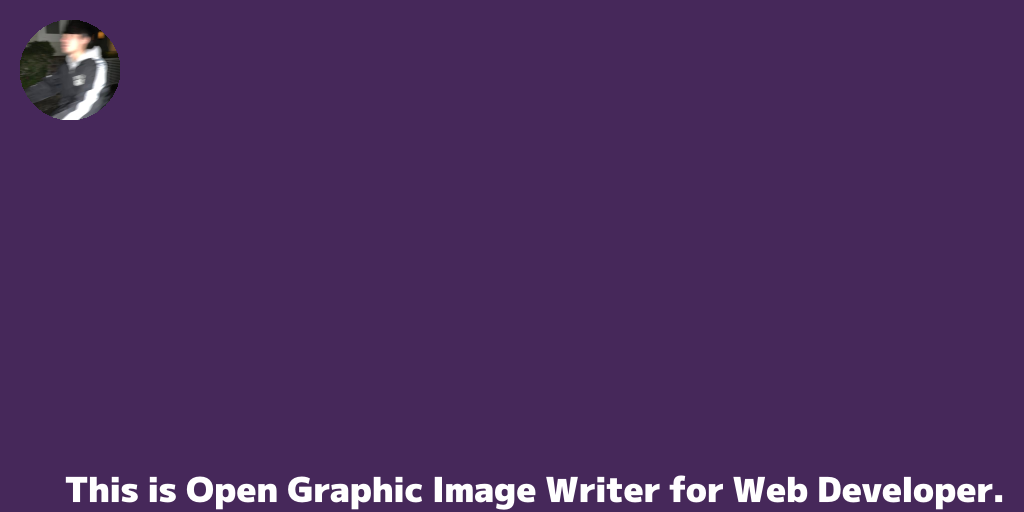
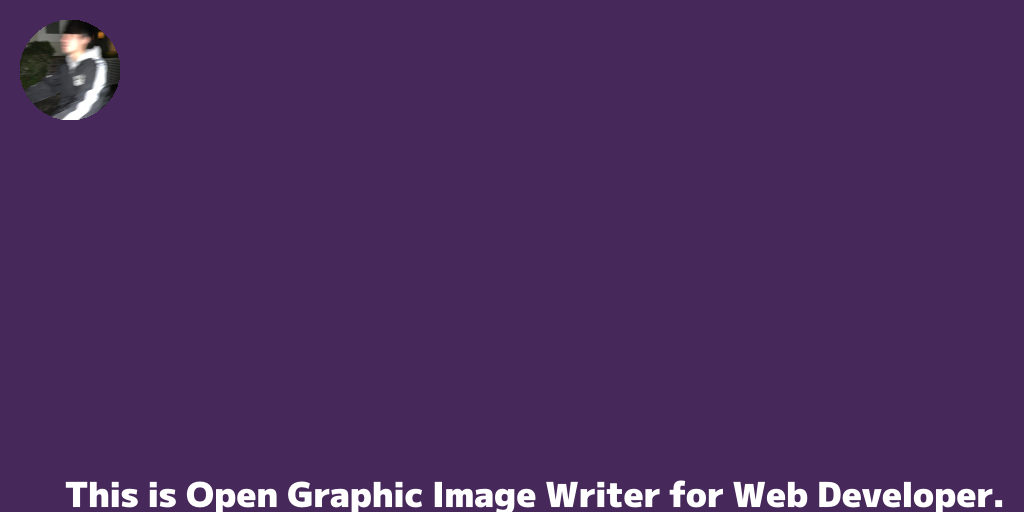
fix: fix `position: absolute;` bottom position

Changed region(s): [[0.0625, 0.9062, 1.0, 1.0]]

diff --git a/og_image_writer/src/layout.rs b/og_image_writer/src/layout.rs
@@ -290,7 +290,10 @@ impl OGImageWriter {
                     line.rect.y += match (text.style.top, text.style.bottom) {
                         (Some(top), _) => top + margin_top,
                         (None, Some(bottom)) => {
+                            let system_line_height = line_metrics.max_line_height as u32 / 2;
+
                             self.window.height as i32
+                                - system_line_height as i32
                                 - line_metrics.total_height as i32
                                 - bottom
                                 - margin_bottom

diff --git a/examples/absolute.rs b/examples/absolute.rs
@@ -41,7 +41,7 @@ fn main() -> anyhow::Result<()> {
             max_height: Some(150),
             text_overflow: style::TextOverflow::Ellipsis,
             position: style::Position::Absolute,
-            bottom: Some(20),
+            bottom: Some(0),
             right: Some(0),
             ..style::Style::default()
         },
